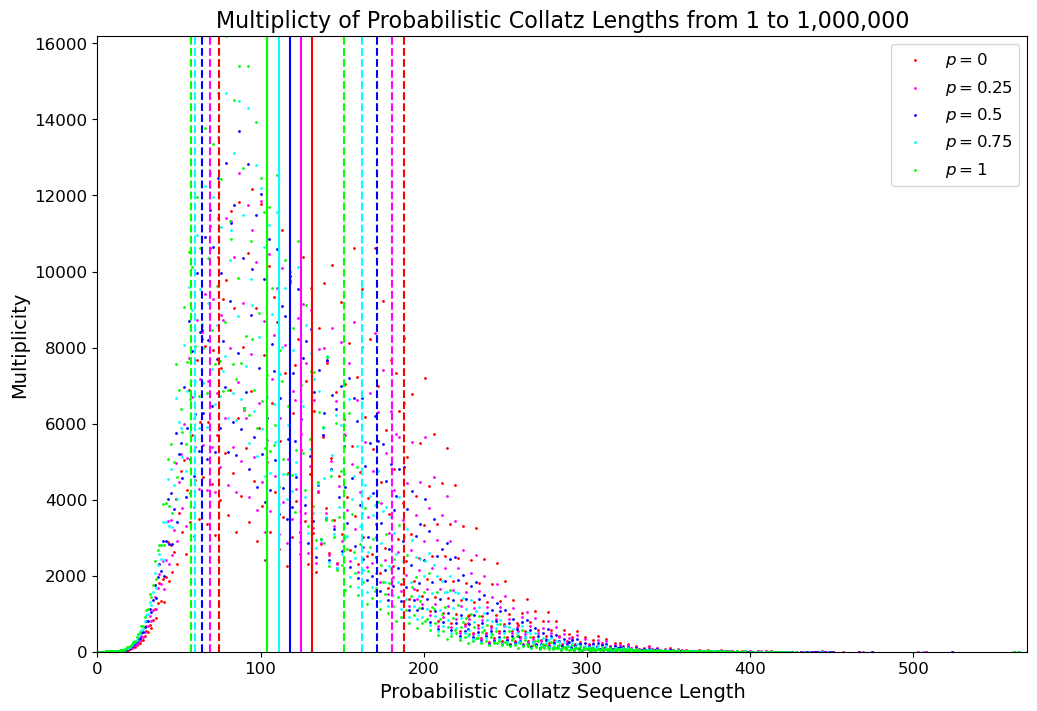
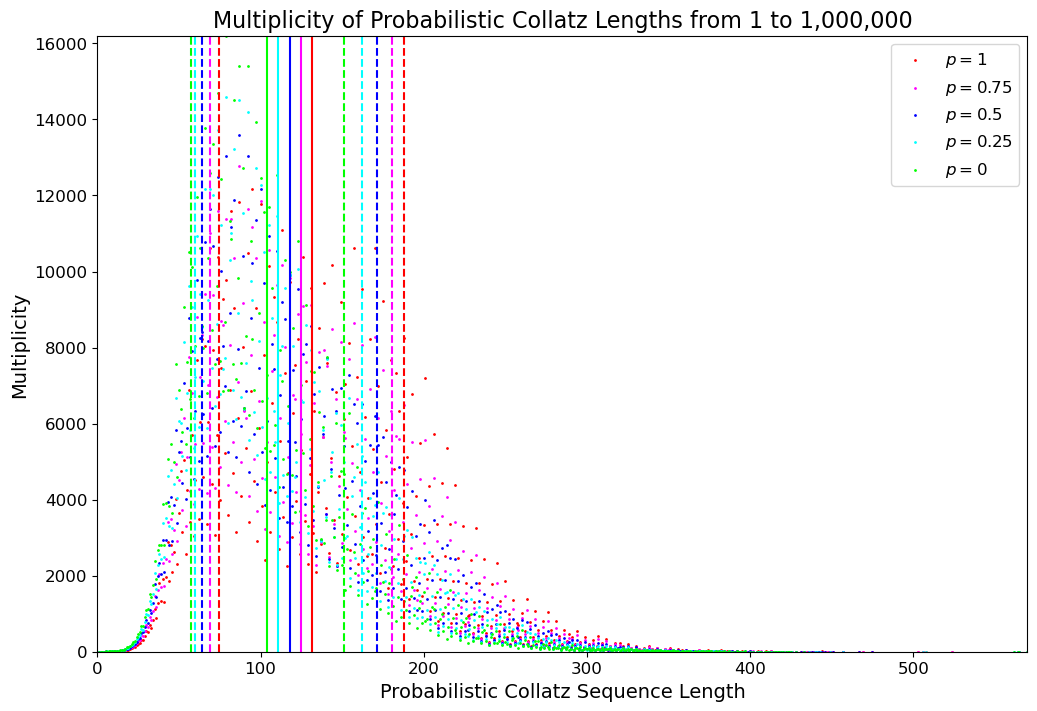
Add files via upload

diff --git a/COMP533/P_Analysis.py b/COMP533/P_Analysis.py
@@ -1,0 +1,155 @@
+from matplotlib import pyplot as plt
+import statistics
+import random
+from collections import Counter as ctr
+
+# Collatz conjecture
+def collatz(n):
+    length = 0
+    while n != 1:
+        if n % 2 == 0:
+            n //= 2
+        else:
+            n = 3*n + 1
+        length += 1
+    return length
+
+# Modified collatz conjecture
+def not_collatz(n):
+    length = 0
+    vals = []
+    while True:
+        if n % 2 == 0:
+            n //= 2
+        else:
+            n = 3*n - 1
+        if n in vals:
+            break
+        vals.append(n)
+        length += 1
+        if n == 1:
+            break
+    return length
+
+# 5 different plots for 5 different p values
+y0 = []
+y1 = []
+y2 = []
+y3 = []
+y4 = []
+
+for n in range(1, 1000001):
+    # Plot for p = 0
+    if random.random() > 0:
+        c = collatz(n)
+        y0.append(c)
+    else:
+        nc = not_collatz(n)
+        y0.append(nc)
+    # Plot for p = 0.25
+    if random.random() > 0.25:
+        c = collatz(n)
+        y1.append(c)
+    else:
+        nc = not_collatz(n)
+        y1.append(nc)
+    # Plot for p = 0.5
+    if random.random() > 0.5:
+        c = collatz(n)
+        y2.append(c)
+    else:
+        nc = not_collatz(n)
+        y2.append(nc)
+    # Plot for p = 0.75
+    if random.random() > 0.75:
+        c = collatz(n)
+        y3.append(c)
+    else:
+        nc = not_collatz(n)
+        y3.append(nc)
+    # Plot for p = 1
+    if random.random() > 1:
+        c = collatz(n)
+        y4.append(c)
+    else:
+        nc = not_collatz(n)
+        y4.append(nc)
+
+plt.figure(figsize=(12, 8))
+
+# Colors for better visualization
+colors = ["#ff0000", "#ff00ff", "#0000ff", "#00ffff", "#00ff00"]
+
+# Calculating  mean, standard deviation
+# Creating the multiplicity dictionary using the counter function,
+# Creating the scatter plots and mean vertical lines
+mean0 = statistics.mean(y0)
+std0 = statistics.stdev(y0)
+m0 = ctr(y0)
+x0 = list(m0.keys())
+y0 = list(m0.values())
+plt.scatter(x0, y0, color=colors[0], s=1, label = r"$p = 1$")
+plt.axvline(x = mean0, color=colors[0])
+plt.axvline(x = (mean0 + std0), color=colors[0], linestyle="dashed")
+plt.axvline(x = (mean0 - std0), color=colors[0], linestyle="dashed")
+
+# See lines 83 to 85
+mean1 = statistics.mean(y1)
+std1 = statistics.stdev(y1)
+m1 = ctr(y1)
+x1 = list(m1.keys())
+y1 = list(m1.values())
+plt.scatter(x1, y1, color=colors[1], s=1, label = r"$p = 0.75$")
+plt.axvline(x = mean1, color=colors[1])
+plt.axvline(x = (mean1 + std1), color=colors[1], linestyle="dashed")
+plt.axvline(x = (mean1 - std1), color=colors[1], linestyle="dashed")
+
+# See lines 83 to 85
+mean2 = statistics.mean(y2)
+std2 = statistics.stdev(y2)
+m2 = ctr(y2)
+x2 = list(m2.keys())
+y2 = list(m2.values())
+plt.scatter(x2, y2, color=colors[2], s=1, label = r"$p = 0.5$")
+plt.axvline(x = mean2, color=colors[2])
+plt.axvline(x = (mean2 + std2), color=colors[2], linestyle="dashed")
+plt.axvline(x = (mean2 - std2), color=colors[2], linestyle="dashed")
+
+# See lines 83 to 85
+mean3 = statistics.mean(y3)
+std3 = statistics.stdev(y3)
+m3 = ctr(y3)
+x3 = list(m3.keys())
+y3 = list(m3.values())
+plt.scatter(x3, y3, color=colors[3], s=1, label = r"$p = 0.25$")
+plt.axvline(x = mean3, color=colors[3])
+plt.axvline(x = (mean3 + std3), color=colors[3], linestyle="dashed")
+plt.axvline(x = (mean3 - std3), color=colors[3], linestyle="dashed")
+
+# See lines 83 to 85
+mean4 = statistics.mean(y4)
+std4 = statistics.stdev(y4)
+m4 = ctr(y4)
+x4 = list(m4.keys())
+y4 = list(m4.values())
+plt.scatter(x4, y4, color=colors[4], s=1, label = r"$p = 0$")
+plt.axvline(x = mean4, color=colors[4])
+plt.axvline(x = (mean4 + std4), color=colors[4], linestyle="dashed")
+plt.axvline(x = (mean4 - std4), color=colors[4], linestyle="dashed")
+
+plt.xlim(0, max(max(x0), max(x1), max(x2), max(x3), max(x4)))
+plt.ylim(0, max(max(y0), max(y1), max(y2), max(y3), max(y4)))
+
+# Axis labels
+plt.xlabel("Probabilistic Collatz Sequence Length", fontsize=14)
+plt.ylabel("Multiplicity", fontsize=14)
+plt.title("Multiplicity of Probabilistic Collatz Lengths from 1 to 1,000,000", fontsize=16)
+
+# Axis scales
+plt.ticklabel_format(style='plain', axis='x')
+plt.xticks(fontsize=12)
+plt.yticks(fontsize=12)
+
+plt.legend(fontsize=12)
+
+plt.show()

diff --git a/COMP533/P.py b/COMP533/P.py
@@ -3,8 +3,10 @@ import statistics
 import random
 from collections import Counter as ctr
 
+# Set a variable for p
 p = 0.5
 
+# Collatz conjecture (only returning length)
 def collatz(n):
     length = 0
     while n != 1:
@@ -15,6 +17,7 @@ def collatz(n):
         length += 1
     return length
 
+# Modified collatz conjecture (only returning length)
 def not_collatz(n):
     length = 0
     vals = []
@@ -31,8 +34,11 @@ def not_collatz(n):
             break
     return length
 
-y = []
 
+# Create a simulation of scatter plot for values
+# Collatz and modified collatz values must go in the same list to calculate an overall multiplicity
+# Using random library to create a value between 0 and 1
+y = []
 for n in range(1, 1000001):
     if random.random() > p:
         c = collatz(n)
@@ -41,14 +47,18 @@ for n in range(1, 1000001):
         nc = not_collatz(n)
         y.append(nc)
 
+# Calculate mean and standard deviation
 mean = statistics.mean(y)
 std = statistics.stdev(y)
+
+# Using the counter function we create a dictionary for multiplicity/frequency
 m = ctr(y)
 x = list(m.keys())
 y = list(m.values())
 
 plt.figure(figsize=(12, 8))
 
+# Plot x and y values with horizontal bars for mean
 plt.scatter(x, y, color="#0000ff", s=5)
 plt.axvline(x = mean, color="#ff0000", label=rf"$\bar{{\mu}} = {round(mean, 3)}$")
 plt.axvline(x = (mean + std), color="#ff0000", linestyle="dashed", label=rf"$\bar{{\mu}} + \sigma = {round(mean + std, 3)}$")
@@ -57,18 +67,16 @@ plt.axvline(x = (mean - std), color="#ff0000", linestyle="dashed", label=rf"$\ba
 plt.xlim(0, max(x))
 plt.ylim(0, max(y))
 
-# Customize the axes
+# Axis labels
 plt.xlabel("Probabilistic Collatz Sequence Length", fontsize=14)
 plt.ylabel("Multiplicity", fontsize=14)
 plt.title("Multiplicty of Probabilistic Collatz Lengths from 1 to 1,000,000", fontsize=16)
 
-# Remove scientific notation from x-axis
+# Axis scales
 plt.ticklabel_format(style='plain', axis='x')
 plt.xticks(fontsize=12)
 plt.yticks(fontsize=12)
 
-# Show the legend
 plt.legend(fontsize=12)
 
-# Display the plot
 plt.show()

diff --git a/COMP533/N.py b/COMP533/N.py
@@ -1,6 +1,7 @@
 from matplotlib import pyplot as plt
 import statistics
 
+# Modified Collatz Conjecture
 def not_collatz(n):
     my_ans = ["red", 0]
     my_list = [n]
@@ -19,8 +20,9 @@ def not_collatz(n):
     my_ans[1] = len(my_list)
     return my_ans
 
+# Create X values
 x = range(1,1000001)
-all_lengths = []
+# Create red and blue dictionaries to store x and respective y values.
 red_lengths = {}
 blue_lengths = {}
 for i in range (1, 1000001):
@@ -31,29 +33,25 @@ for i in range (1, 1000001):
     if my_ans[0] == "blue":
         blue_lengths[i] = my_ans[1]
 
+plt.figure(figsize=(12, 8))
 
-# Create the plot with a larger figure size
-plt.figure(figsize=(12, 8))  # Increased figure size for better readability
-
-# Scatter plot and horizontal lines
+# Scatter plot for both blue and red values
 plt.scatter(blue_lengths.keys(), blue_lengths.values(), color="#0000ff", s=0.1, label = "Paths to 1")
 plt.scatter(red_lengths.keys(), red_lengths.values(), color="#ff0000", s=0.1, label = "Paths that loop")
 
 plt.xlim(0, max(x))
-plt.ylim(0, max(all_lengths))
+plt.ylim(0, max(max(red_lengths.values()), max(blue_lengths.values())))
 
-# Customize the axes
+# Axis labels
 plt.xlabel("Starting Number", fontsize=14)
 plt.ylabel("Modified Collatz Sequence Length", fontsize=14)
 plt.title(r"Modified Collatz $(3n-1)$ Lengths from 1 to 1,000,000", fontsize=16)
 
-# Remove scientific notation from x-axis
+# Axis scales
 plt.ticklabel_format(style='plain', axis='x')
 plt.xticks(fontsize=12)
 plt.yticks(fontsize=12)
 
-# Show the legend
 plt.legend(fontsize=12)
 
-# Display the plot
 plt.show()

diff --git a/COMP533/M.py b/COMP533/M.py
@@ -2,6 +2,7 @@ from matplotlib import pyplot as plt
 import statistics
 from collections import Counter as ctr
 
+# Collatz Conjecture
 def collatz(n):
     list = []
     while n != 1:
@@ -12,17 +13,22 @@ def collatz(n):
         list.append(n)
     return list
 
+# Create x and y values for original sets
 x = list(range(1, 1000001))
 y = [len(collatz(n)) for n in x]
+
+# Calculate mean and standard deviation
 mean = statistics.mean(y)
 std = statistics.stdev(y)
-m = ctr(y)
 
+# Use the counter function to create a counter dictionary (calculating multiplicity/frequency) for new x and y values
+m = ctr(y)
 x = list(m.keys())
 y = list(m.values())
 
 plt.figure(figsize=(12, 8))
 
+# Plot new x and y values with mean as vertical bars
 plt.scatter(x, y, color="#ff0000", s=5)
 plt.axvline(x = mean, color="#0000ff", label=rf"$\bar{{\mu}} = {round(mean, 3)}$")
 plt.axvline(x = (mean + std), color="#0000ff", linestyle="dashed", label=rf"$\bar{{\mu}} + \sigma = {round(mean + std, 3)}$")
@@ -31,18 +37,16 @@ plt.axvline(x = (mean - std), color="#0000ff", linestyle="dashed", label=rf"$\ba
 plt.xlim(0, max(x))
 plt.ylim(0, max(y))
 
-# Customize the axes
+# Axis labels
 plt.xlabel("Collatz Sequence Length", fontsize=14)
 plt.ylabel("Multiplicity", fontsize=14)
 plt.title("Multiplicty of Collatz Lengths from 1 to 1,000,000", fontsize=16)
 
-# Remove scientific notation from x-axis
+# Axis scale
 plt.ticklabel_format(style='plain', axis='x')
 plt.xticks(fontsize=12)
 plt.yticks(fontsize=12)
 
-# Show the legend
 plt.legend(fontsize=12)
 
-# Display the plot
 plt.show()

diff --git a/COMP533/L.py b/COMP533/L.py
@@ -1,6 +1,7 @@
 from matplotlib import pyplot as plt
 import statistics
 
+# Collatz Conjecture
 def collatz(n):
     list = []
     while n != 1:
@@ -11,13 +12,14 @@ def collatz(n):
         list.append(n)
     return list
 
+# Create X and Y values to be plotted
 x = list(range(1, 1000001))
 y = [len(collatz(n)) for n in x]
+# Calculate mean and standard deviation
 mean = round(statistics.mean(y))
 std = round(statistics.stdev(y))
 
-# Create the plot with a larger figure size
-plt.figure(figsize=(12, 8))  # Increased figure size for better readability
+plt.figure(figsize=(12, 8))
 
 # Scatter plot and horizontal lines
 plt.scatter(x, y, color="#0000ff", s=0.1)
@@ -28,18 +30,16 @@ plt.axhline(y=(mean - std), color="#ff0000", linestyle="dashed", label=rf"$\bar{
 plt.xlim(0, max(x))
 plt.ylim(0, max(y))
 
-# Customize the axes
+# Axis labels
 plt.xlabel("Starting Number", fontsize=14)
 plt.ylabel("Collatz Sequence Length", fontsize=14)
 plt.title("Collatz Lengths from 1 to 1,000,000", fontsize=16)
 
-# Remove scientific notation from x-axis
+# Axis scales
 plt.ticklabel_format(style='plain', axis='x')
 plt.xticks(fontsize=12)
 plt.yticks(fontsize=12)
 
-# Show the legend
 plt.legend(fontsize=12)
 
-# Display the plot
 plt.show()
